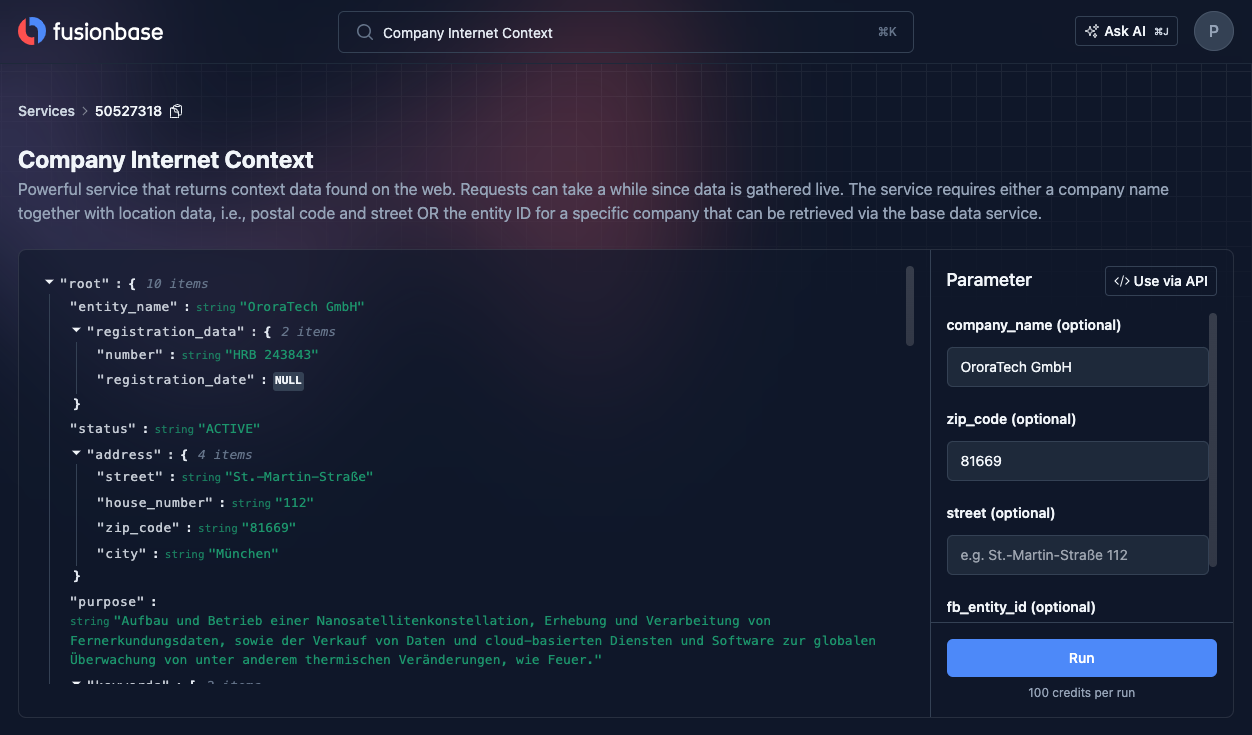
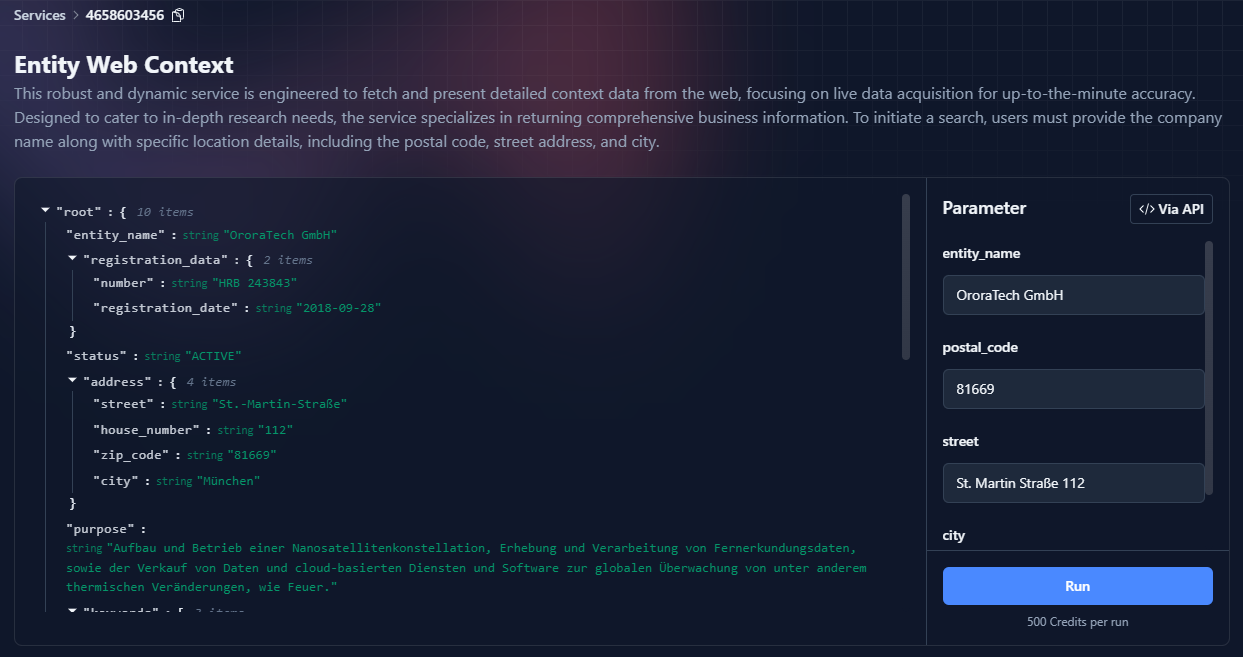
GITBOOK-42: change request with no subject merged in GitBook

diff --git a/api/data-services.md b/api/data-services.md
@@ -8,7 +8,7 @@ description: >-
 
 Our Data Service API functions as an interface that delivers specific outputs in response to defined inputs. It is designed to streamline the process of retrieving targeted data efficiently and accurately.
 
-**Example:** [**Web Context Service for Organizations**](https://fusionbase.com/en/data/service/50527318/Company%20Internet%20Context)
+**Example:** [**Web Context Service for Organizations**](https://fusionbase.com/de/data/service/4658603456/Entity%20Web%20Context)
 
 **Functionality:** The Web Context Service for Organizations is a specialized feature of our Data Service API. It is engineered to collect and return comprehensive, publicly available information about various companies.
 
@@ -51,14 +51,14 @@ JSON object containing the key (input parameter name) and value pairs to invoke 
 
 All services are used in the exact same way. Let's take the [**Web Context Service for Organizations**](https://fusionbase.com/en/data/service/50527318/Company%20Internet%20Context) as an example on how to use them via the API.
 
-<figure><img src="../.gitbook/assets/image.png" alt=""><figcaption></figcaption></figure>
+<figure><img src="../.gitbook/assets/image.png" alt=""><figcaption><p>Entity Web Context - Data Service</p></figcaption></figure>
 
 The Company Web Context Service is designed to retrieve and compile comprehensive internet-based information about specific companies.
 
 **Key Features:**
 
-* **Input Parameters:** The service requires two input values: `company_name` and `zip_code`.
-* **Service ID:** This service is identified by the ID `50527318`.
+* **Input Parameters:** The service requires four input values: `entity_name`, `postal_code`, `street` and `city`
+* **Service ID:** This service is identified by the ID `4658603456`.
 
 **Example Usage:** To invoke this service for "OroraTech GmbH" located in the zip code area "81669", a POST request can be made as follows:
 
@@ -73,9 +73,11 @@ curl -X "POST" "https://api.fusionbase.com/api/v2/service/invoke" \
 -d $'{
 "inputs": {
     "company_name": "OroraTech GmbH",
-    "zip_code": "81669"
+    "postal_code": "81669",
+    "street": "St. Martin Straße 112",
+    "city": "München"
 },
-"service_key": "50527318" # THE ID OF THE SERVICE
+"service_key": "4658603456" # THE ID OF THE SERVICE
 }'
 ```
 {% endtab %}
@@ -92,10 +94,12 @@ headers = {
 }
 payload = {
     "inputs": {
-        "company_name": "OroraTech GmbH",
-        "zip_code": "81669"
+       "company_name": "OroraTech GmbH",
+       "postal_code": "81669",
+       "street": "St. Martin Straße 112",
+       "city": "München"
     },
-    "service_key": "50527318"
+    "service_key": "4658603456"
 }
 
 response = requests.post(url, headers=headers, data=json.dumps(payload))
@@ -115,10 +119,12 @@ const headers = {
 };
 const payload = {
     inputs: {
-        company_name: "OroraTech GmbH",
-        zip_code: "81669"
+       company_name: "OroraTech GmbH",
+       postal_code: "81669",
+       street: "St. Martin Straße 112",
+       city: "München"
     },
-    service_key: "50527318"
+    service_key: "4658603456"
 };
 
 axios.post(url, payload, { headers: headers })
@@ -139,7 +145,12 @@ public class Main {
     public static void main(String[] args) {
         try {
             URL url = new URL("https://api.fusionbase.com/api/v2/service/invoke");
-            String jsonInputString = "{\"inputs\": {\"company_name\": \"OroraTech GmbH\", \"zip_code\": \"81669\"}, \"service_key\": \"50527318\"}";
+            String jsonInputString = "{\"inputs\": {"
+                + "\"company_name\": \"OroraTech GmbH\", "
+                + "\"postal_code\": \"81669\", "
+                + "\"street\": \"St. Martin Straße 112\", "
+                + "\"city\": \"München\"}, "
+                + "\"service_key\": \"4658603456\"}";
             byte[] postData = jsonInputString.getBytes(StandardCharsets.UTF_8);
 
             HttpURLConnection con = (HttpURLConnection) url.openConnection();
@@ -181,9 +192,11 @@ func main() {
     payload := map[string]interface{}{
         "inputs": map[string]string{
             "company_name": "OroraTech GmbH",
-            "zip_code": "81669",
+            "postal_code": "81669",
+            "street": "St. Martin Straße 112",
+            "city": "München"
         },
-        "service_key": "50527318",
+        "service_key": "4658603456",
     }
     jsonPayload, _ := json.Marshal(payload)
 
